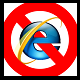
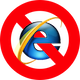
Add some doc...

diff --git a/app/views/index.scala.html b/app/views/index.scala.html
@@ -2,6 +2,8 @@
 
 @main {
 
-<img src='/assets/images/soapower.png' width='50%' display='float:left'>
+    <h5>Soapower in few words...</h5>
 
+<img src='/assets/images/soapower/soapower.png' width='50%' display='float:left'>
+<img src='/assets/images/soapower/classDiagram.png' display='float:right'>
 }

diff --git a/README.md b/README.md
@@ -19,7 +19,7 @@ Administration interface is available for
  - Import / export service configurations & settings
  - Set the purges data XML Data requests & Answers, All Data /  environment
 
-<img src='https://raw.github.com/soapower/soapower/master/public/images/soapower.png' width='50%' display='float:left'>
+<img src='https://raw.github.com/soapower/soapower/master/public/images/soapower/soapower.png' width='50%' display='float:left'>
 
 Trello
 =======
